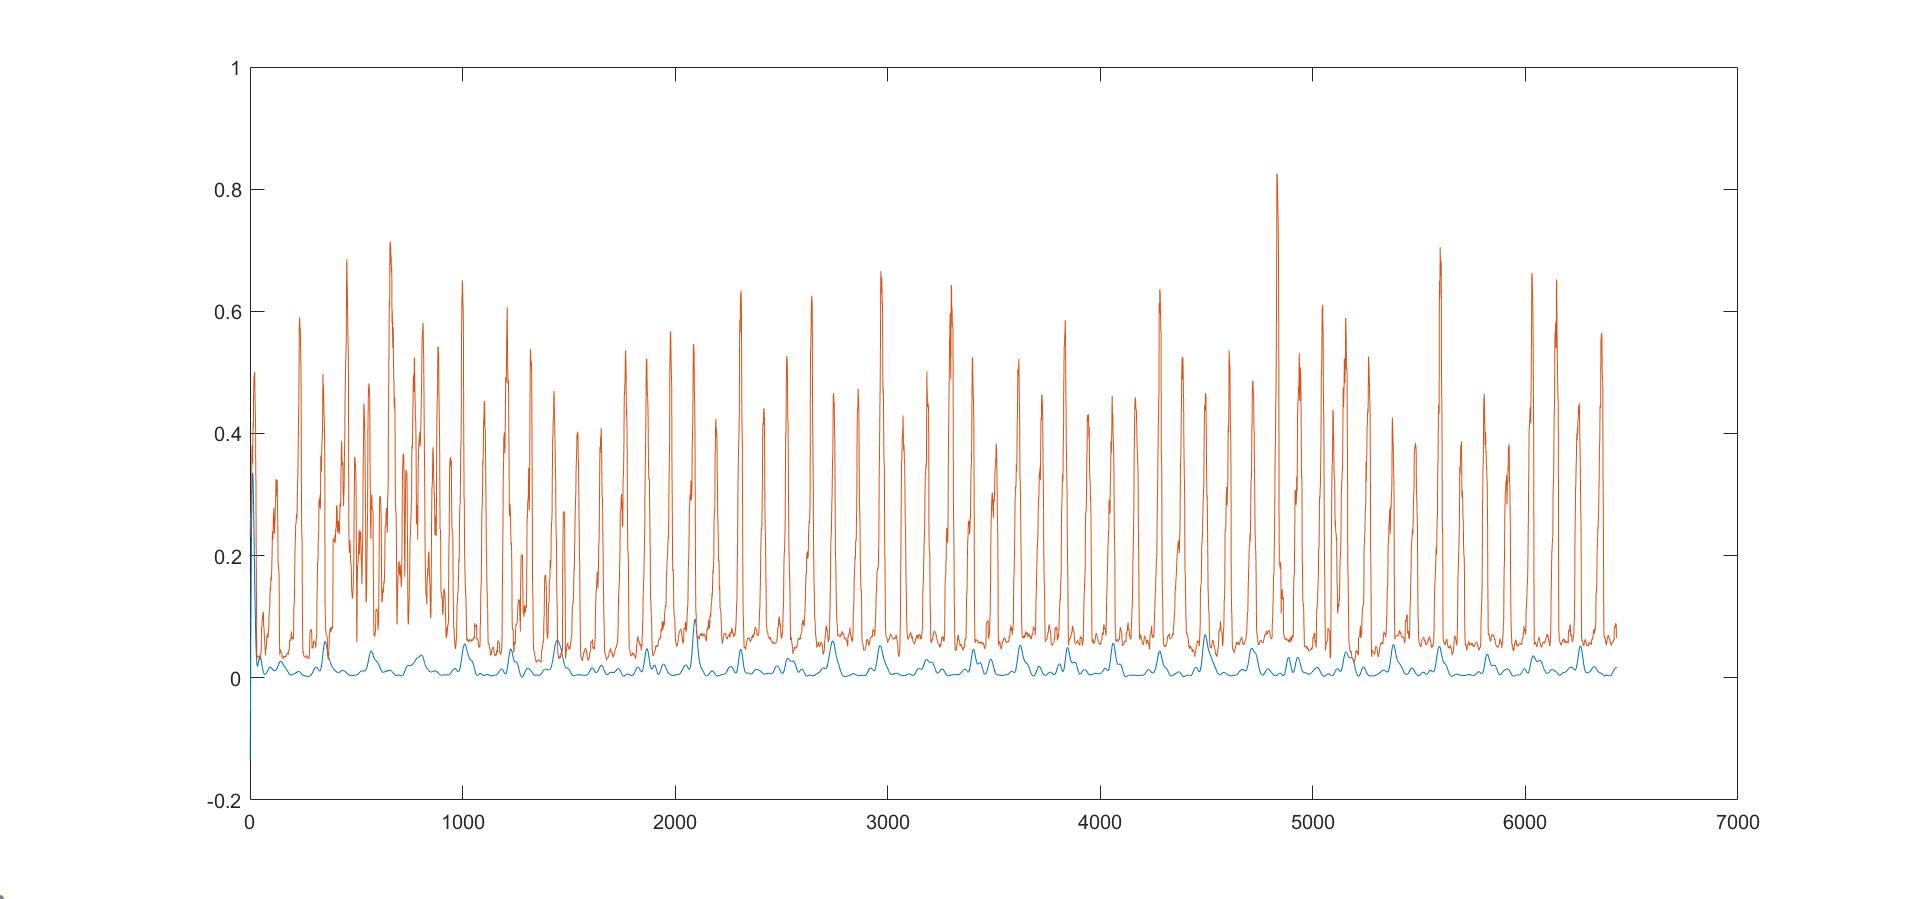
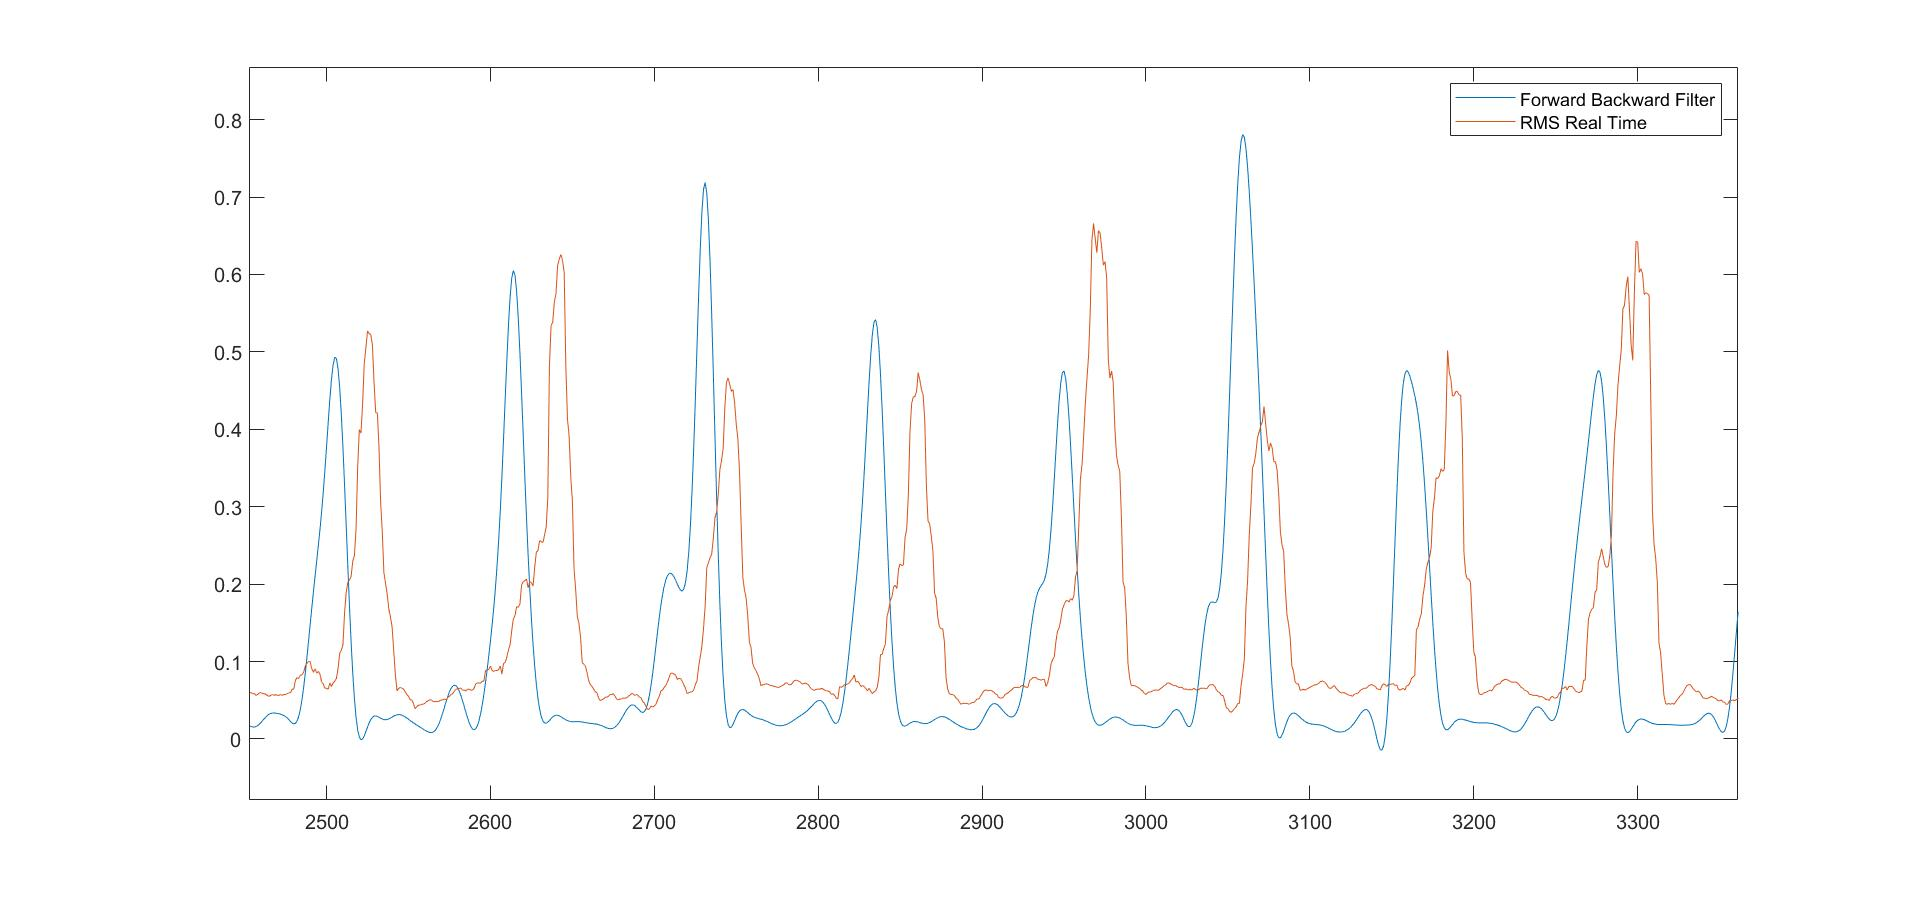
added new model

diff --git a/EMG Data Processing/Trial 1119/NMMmodel2.m b/EMG Data Processing/Trial 1119/NMMmodel2.m
@@ -1,0 +1,139 @@
+function [assistance,time] = NMMmodel2(params)
+%% NMM model
+
+%fixed parameters
+frequency = params.frequency; % 200 (Hz)
+EMGdelay = params.EMGdelay; % 0 (s)  - EMG
+Tact = params.Tact; %0.01 (s) - Activation Dynamics
+Tdeact = params.Tdeact; %0.04 (s) - Activation Dynamics
+Fmax = params.Fmax; %5000 (N) - Tendon Dynamics, Active Muscle Dynamics
+tendon_length_slack = params.tendon_length_slack; %0.135166 (m) - Tendon Dynamics
+tendon_stiffness = params.tendon_stiffness; %Fmax/0.049 (N/m) - Tendon Dynamics
+optimal_fiber_length = params.optimal_fiber_length; %0.124679 (m) - Active Muscle Dynamics
+a = params.a; %3.1108 (FL relationships) - Active Muscle Dynamics
+b = params.b; %.8698 (FL relationships) - Active Muscle Dynamics
+B = params.B; %5.31 (passive relationships) - Passive Muscle Dynamics
+lever_arm = params.lever_arm; %0.0475 (m) - MTU Length
+B_tendon = params.B_tendon; %2750 (N*s/m) tendon damping
+EMGgain = params.EMGgain; %0.8 runs from 0 to 1 where 1 is complete EMG and 0 is no EMG  - EMG
+s = params.s; %.3914 (FL relationships) - Active Muscle Dynamics
+A = params.A; %2.38*10^(-2) (passive relationships) - Passive Muscle Dynamics
+Vmax = params.Vmax; %-10*optimal_fiber_length (m/s) - Active Muscle Dynamics
+
+assistance_pct = params.assistance_pct;
+
+%initial calculations
+iteration_time = 1/frequency; %(s)
+MTU_slack_length = tendon_length_slack + optimal_fiber_length;
+
+%initialize starting states
+previous_activation = 0;
+previous_muscle_force = 0;
+previous_muscle_length = optimal_fiber_length;
+previous_MTU_length = MTU_slack_length;
+previous_tendon_length = tendon_length_slack;
+
+%inputs 
+EMGsignal = params.EMGsignal; % sampled at frequency set above
+angle_enc = params.angle_enc; %.*pi./180 (rad) sampled at frequency set above - is flexion
+initial_time = params.initial_time; %(s)
+initial_angle = params.initial_angle;
+
+for iteration = 1:length(EMGsignal)
+    
+current_time = iteration_time*iteration;
+
+%% EMG
+delay_time = current_time - EMGdelay;
+delay_iter = floor(delay_time/iteration_time);
+
+activation = EMGsignal(iteration)*EMGgain;
+
+%EMG thresholds
+if activation > 1
+    activation = 1;
+elseif activation < 0
+    activation = 0;
+end
+
+%% Activation Dynamics
+%Equation is taken from Zajac (1989) Eq. 1
+ratioB=Tact/Tdeact;
+derivative_act= activation/Tact - (1/Tact*(ratioB+(1-ratioB)*activation))*previous_activation;
+activation = derivative_act*iteration_time; %integrate
+previous_activation = activation; %reset feedback
+
+%% Muscle Length
+muscle_length = previous_MTU_length - previous_tendon_length;
+
+%% Active Muscle Dynamics
+muscle_velocity = (muscle_length - previous_muscle_length)/iteration_time; %derivative of length
+
+%Hill Type Muscle F-V relationship.  Returns a normalized force-velocity value
+if (muscle_velocity < Vmax)
+    norm_force_velocity=0;
+else
+    if (muscle_velocity >= Vmax && muscle_velocity < 0)
+        norm_force_velocity = ((1-(muscle_velocity/Vmax))/(1+(muscle_velocity/0.17/Vmax)));
+    else
+        norm_force_velocity =(1.8-0.8*((1+(muscle_velocity/Vmax))/(1-7.56*muscle_velocity/0.17/Vmax)));
+    end
+end
+    
+%Active muscle F-L relationships.  Returns a normalized F-L value
+
+if muscle_length < 0
+    muscle_length = 0;
+end
+norm_force_length = exp(-(abs(((muscle_length/optimal_fiber_length)^b-1)/s))^a);
+
+%Total active force of muscle based on normalized F-V and F-L relationships
+active_muscle_force(iteration) = Fmax* activation * norm_force_velocity * norm_force_length;
+
+%% Passive Muscle Dynamics
+% Passive CE F_L taken from Rubenson et. al.
+if muscle_length >= optimal_fiber_length   
+    %old passive_muscle_force=
+    %Fmax*A*exp(B*((muscle_length/optimal_fiber_length)-1)); len>0
+    passive_muscle_force = Fmax*A*(exp(B*((muscle_length/optimal_fiber_length)-1))-1);
+else
+    passive_muscle_force=0;
+end
+%% Muscle Force
+if delay_iter < iteration_time
+    muscle_force = passive_muscle_force;
+else
+    muscle_force = active_muscle_force(delay_iter) + passive_muscle_force;
+end
+
+%% MTU Length
+%check how measuring initial angle to see if +or-
+MTU_length = (-angle_enc(iteration) + initial_angle)*lever_arm + MTU_slack_length;
+
+%% Tendon Dynamics
+% Lichtwark, G.A. and Wilson, A.M., 2008. Journal of theoretical biology, 252(4), pp.662-673.
+% no damping
+%    change_tendon_length = (previous_muscle_force + (Fmax*log((-9*exp(-(20*previous_muscle_force)/Fmax)) + 10))/20)/tendon_stiffness;
+%    tendon_length = change_tendon_length + tendon_length_slack;
+% With damping
+    change_tendon_length = (muscle_force - tendon_stiffness*(previous_tendon_length-tendon_length_slack))/B_tendon*iteration_time;
+    tendon_length = change_tendon_length + previous_tendon_length;
+    
+%% Update parameters for next iteration
+previous_muscle_length = muscle_length;
+previous_tendon_length = tendon_length;
+previous_muscle_force = muscle_force;
+previous_MTU_length = MTU_length;
+
+%% Contribution to joint torque
+%use lever arm from above
+extension_torque = muscle_force*lever_arm;
+assistance (iteration) = extension_torque*assistance_pct;
+end
+
+time = [1:length(EMGsignal)].*iteration_time + initial_time;
+%new_time = time + delay2;
+%assistance = interp1(new_time,assistance,time,'spline',0);
+%plot(time,assistance)
+
+end

diff --git a/EMG Data Processing/Trial 1119/NMMrun.m b/EMG Data Processing/Trial 1119/NMMrun.m
@@ -1,0 +1,53 @@
+function [commanded_torque,sim_time] = NMMrun(params,trial_data)
+
+fields = fieldnames(params);
+for p = 1:length(fields)
+    if contains(fields{p},'vasti_') == 1
+        vasti.(fields{p}(7:end)) = params.(fields{p});
+    elseif contains(fields{p},'hams_') == 1
+        hams.(fields{p}(6:end)) = params.(fields{p});
+    else
+        gastroc.(fields{p}(9:end)) = params.(fields{p});
+    end
+end
+
+vasti.EMGsignal = trial_data.EMGsignal_vasti;
+hams.EMGsignal = trial_data.EMGsignal_hams;
+gastroc.EMGsignal = trial_data.EMGsignal_gastroc;
+vasti.EMGtime = trial_data.EMGtime;
+hams.EMGtime = trial_data.EMGtime;
+gastroc.EMGtime = trial_data.EMGtime;
+vasti.angle_enc = trial_data.angle_enc;
+hams.angle_enc = trial_data.angle_enc;
+gastroc.angle_enc = trial_data.angle_enc;
+vasti.frequency = 1/(trial_data.EMGtime(2) - trial_data.EMGtime(1));
+hams.frequency = 1/(trial_data.EMGtime(2) - trial_data.EMGtime(1));
+gastroc.frequency = 1/(trial_data.EMGtime(2) - trial_data.EMGtime(1));
+vasti.initial_time = trial_data.EMGtime(1);
+hams.initial_time = trial_data.EMGtime(1);
+gastroc.initial_time = trial_data.EMGtime(1);
+vasti.initial_angle = 0;
+hams.initial_angle = 0;
+gastroc.initial_angle = 0;
+
+vasti.B_tendon = 100*vasti.B_tendon;
+hams.B_tendon = 100*hams.B_tendon;
+gastroc.B_tendon = 100*gastroc.B_tendon;
+if vasti.EMGgain > 1
+    vasti.B_tendon = 100*vasti.B_tendon*vasti.EMGgain;
+end
+if hams.EMGgain > 1
+    hams.B_tendon = 100*hams.B_tendon*hams.EMGgain;
+end
+if gastroc.EMGgain > 1
+    gastroc.B_tendon = 100*gastroc.B_tendon*gastroc.EMGgain;
+end
+
+[assistance_vasti,time] = NMMmodel2(vasti);
+[assistance_hams,~] = NMMmodel2(hams);
+[assistance_gastroc,~] = NMMmodel2(gastroc);
+
+commanded_torque = assistance_vasti + assistance_hams + assistance_gastroc;
+sim_time = time;
+
+end

diff --git a/EMG Data Processing/Trial 1119/NMMcost.m b/EMG Data Processing/Trial 1119/NMMcost.m
@@ -1,0 +1,49 @@
+function cost = NMMcost(x,param_names,param_norm_factor,trial_data,max_torque,plotOn)
+%run the NMM with parameters from the optimizer
+
+load('NMMparams_default.mat','default') %vasti_,hams_,gastroc_
+pause(rand(1)*5)
+
+params = default;
+for ii = 1:length(param_names)
+    if ~istable(x)
+        params.(param_names{ii}) = x(ii)*param_norm_factor(ii);
+    else
+        params.(param_names{ii}) = x{1,ii}*param_norm_factor(ii);
+    end
+end
+
+% if params.vasti_EMGgain > 1
+%     params.vasti_B_tendon = params.vasti_B_tendon*3*params.vasti_EMGgain;
+% end
+% if params.hams_EMGgain > 1
+%     params.hams_B_tendon = params.hams_B_tendon*3*params.hams_EMGgain;
+% end
+% if params.gastroc_EMGgain > 1
+%     params.gastroc_B_tendon = params.gastroc_B_tendon*3*params.gastroc_EMGgain;
+% end
+
+[commanded_torque,sim_time] = NMMrun(params,trial_data);
+commanded_torque2 = commanded_torque.*max_torque./max(abs(commanded_torque)); %limit peak torque to 20 Nm
+if ~plotOn
+    [JCF,time] = JRFforprofile4(sim_time,commanded_torque2);
+    cost = trapz(time,JCF)./(time(end) - time(1));
+
+    fprintf('iteration\n')
+    fprintf('Cost: %f \n', cost)
+else
+    actual_torque = trial_data.moment;
+    actual_time = trial_data.time;
+    figure;
+    gc_sim = segment_data(commanded_torque2',sim_time',trial_data.tref_force);
+    gc_act = segment_data(actual_torque,actual_time,trial_data.tref_force);
+    ens_avg_cyc_k({gc_act.data},1,1)
+    hold on
+    ens_avg_cyc_k({gc_sim.data},1,2)
+    ylabel('Torque (Nm)')
+    xlabel('Gait Cycle (%)')
+    legend ('actual', 'simulated')
+    cost = -1;
+end
+
+end

diff --git a/EMG Data Processing/Trial 1119/final_model_run.m b/EMG Data Processing/Trial 1119/final_model_run.m
@@ -1,0 +1,43 @@
+%% Intialize Variables
+clear
+load('Processed_1119_2.mat');
+load('NMMparams_default.mat');
+process_data_script = "process_data.m";
+filter_data_script = "filter_data.m";
+
+%% Load Params
+params = default;
+for ii = 1:length(param_names)
+    if ~istable(Control)
+        params.(param_names{ii}) = Control(ii);
+    else
+        params.(param_names{ii}) = Control{1,ii};
+    end
+end
+
+%% Preprocess Data
+run(process_data_script);
+trial_data.angle_enc = angle_enc;
+for muscle_number = 1:3
+    run(filter_data_script)
+    if muscle_number == 1
+        trial_data.EMGsignal_vasti = EMGsignal_vasti;
+    elseif muscle_number == 2
+        trial_data.EMGsignal_hams = EMGsignal_vasti;
+    elseif muscle_number == 3
+        trial_data.EMGsignal_gastroc = EMGsignal_vasti;
+    end
+end
+trial_data.EMGtime = [1:length(EMGsignal_vasti)]./100;
+
+%% Run Model
+[commanded_torque, sim_time]= NMMrun(params,trial_data);
+
+%% Plot data
+plot(commanded_torque / max(commanded_torque), 'LineWidth',2.0);
+hold on;
+torque_l = Ttable1{:,"Torque_l"};
+plot(torque_l(1:length(commanded_torque),:), 'LineWidth',2.0);
+legend('Commanded Torque', 'Jetson Torque')
+xlabel('Time');
+ylabel('Torque');

diff --git a/EMG Data Processing/Trial 1119/filter_data.m b/EMG Data Processing/Trial 1119/filter_data.m
@@ -4,11 +4,11 @@ bandpass_high_frequency = 400;
 lowpass_frequency = 6;
 sampling_frequency = 1000;
 filter_order = 4;
-downsampling_factor = 5;
+downsampling_factor = 10;
 
 %% Get EMG + Filter Data between two NAN Values
 % Change second number for different muscles
-emg_goniometer_data = emg_table{first_nan_emg:second_nan_emg,muscle_number};
+emg_goniometer_data = emg_table{first_nan_emg:second_nan_emg,muscle_number+1};
 % Center the data (subtract from mean)
 emg_goniometer_data_center = double(emg_goniometer_data-mean(emg_goniometer_data));
 % Apply bandpass filter w/following attributes
@@ -21,6 +21,6 @@ emg_goniometer_data_absolute = abs(emg_goniometer_data_bandpass);
 emg_goniometer_data_lowpass =  filtfilt(b, a, emg_goniometer_data_absolute);    
 emg_goniometer_data_downsampled = downsample(emg_goniometer_data_lowpass,downsampling_factor);
 % Final data to be used in NMM_script2.m
-emg_goniometer_data_downsampled = emg_goniometer_data_downsampled(1:length(angle_enc),:);
+% emg_goniometer_data_downsampled = emg_goniometer_data_downsampled(1:length(angle_enc),:);
 % angle_enc = angle_enc(1:length(emg_goniometer_data_downsampled),:);
 EMGsignal_vasti = emg_goniometer_data_downsampled;

diff --git a/EMG Data Processing/Trial 1119/plot_actual_pseudo_emg.m b/EMG Data Processing/Trial 1119/plot_actual_pseudo_emg.m
@@ -1,3 +1,4 @@
+clear;
 muscles = ["Vasti_l", "Hamstring_l", "Gastroc_l"];
 filter_data_script = "filter_data.m"; 
 neuro_muscular_model_script = 'NMM_script2.m';
@@ -7,6 +8,9 @@ muscle_number = 3;
 run(process_data_script)
 current_muscle = muscles(muscle_number);
 run(filter_data_script);
-plot(emg_goniometer_data_downsampled);
+plot(emg_goniometer_data_downsampled/MVC_measures(:, muscle_number), 'LineWidth',2.0);
 hold on;
-plot(EMGtable1{:,current_muscle});
+plot(EMGtable1{1:length(emg_goniometer_data_downsampled),current_muscle}, 'LineWidth',2.0);
+legend('Forward Backward Filter','RMS Real Time')
+xlabel('Time')
+ylabel('Processed EMG')

diff --git a/EMG Data Processing/Trial 1119/process_data.m b/EMG Data Processing/Trial 1119/process_data.m
@@ -22,4 +22,4 @@ second_nan_emg = nan_rows(2, :);
 %% Final Data to use in other script
 % Splice angle table from the first "1" to the second "1"
 angle_enc = angle_table{first_one_command_init:second_one_command_init, "Angle_r"};
-angle_enc = angle_enc / max(abs(angle_enc));
+angle_enc = abs(angle_enc*pi/180);

diff --git a/EMG Data Processing/Trial 1119/run_main.m b/EMG Data Processing/Trial 1119/run_main.m
@@ -20,4 +20,6 @@ end
 
 plot(time,abs(combined_assistance),'color',[1 .41 .70]);
 hold on;
-plot(time, Ttable1{:,"Torque_l"}, 'color',[0 0 0.5]);
+torque_l = Ttable1{:,"Torque_l"};
+plot(time, torque_l(1:length(combined_assistance),:), 'color',[0 0 0.5]);
+legend('Combined Assistance', "Torque")
